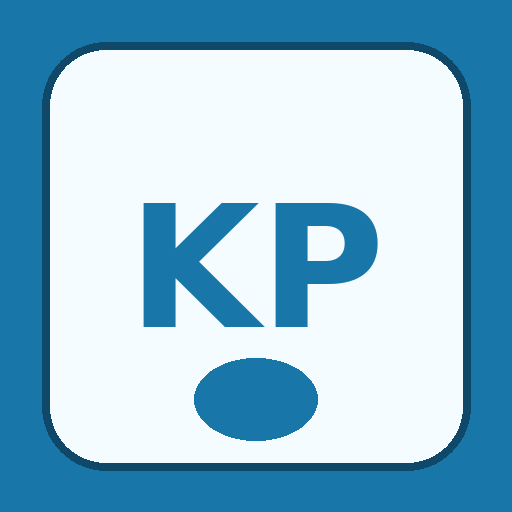
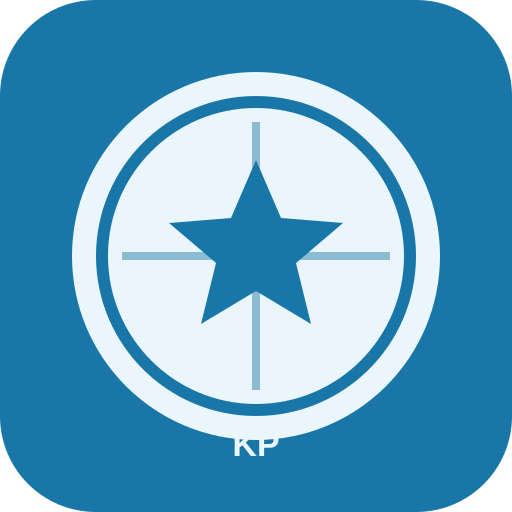
Add files via upload

diff --git a/sw.js b/sw.js
@@ -1,14 +1,39 @@
-const CACHE_NAME = 'kpmuhurat-v1.5.11-1.36-event-rule-engine';
-self.addEventListener('install', event => { self.skipWaiting(); });
-self.addEventListener('activate', event => {
-  event.waitUntil(caches.keys().then(keys => Promise.all(keys.filter(k => k !== CACHE_NAME).map(k => caches.delete(k)))).then(() => self.clients.claim()));
+const CACHE = 'kpmuhurat-v1.42';
+const SHELL = [
+  './', './index.html', './manifest.webmanifest',
+  './icon-192.png', './icon-512.png'
+];
+
+self.addEventListener('install', event => {
+  event.waitUntil(caches.open(CACHE).then(c => c.addAll(SHELL)).then(() => self.skipWaiting()));
 });
+
+self.addEventListener('activate', event => {
+  event.waitUntil(caches.keys().then(keys => Promise.all(
+    keys.filter(k => k.startsWith('kpmuhurat-') && k !== CACHE).map(k => caches.delete(k))
+  )).then(() => self.clients.claim()));
+});
+
 self.addEventListener('fetch', event => {
   const req = event.request;
   if (req.method !== 'GET') return;
-  if (req.mode === 'navigate' || new URL(req.url).pathname.endsWith('/index.html') || new URL(req.url).pathname.endsWith('/')) {
-    event.respondWith(fetch(req).then(res => { const copy=res.clone(); caches.open(CACHE_NAME).then(c=>c.put(req,copy)); return res; }).catch(()=>caches.match(req).then(r=>r||caches.match('./index.html'))));
+  const url = new URL(req.url);
+  if (url.origin !== self.location.origin) return;
+
+  if (req.mode === 'navigate') {
+    event.respondWith(fetch(req).then(res => {
+      const copy = res.clone();
+      caches.open(CACHE).then(c => c.put('./index.html', copy));
+      return res;
+    }).catch(() => caches.match('./index.html')));
     return;
   }
-  event.respondWith(fetch(req).then(res=>{const copy=res.clone();caches.open(CACHE_NAME).then(c=>c.put(req,copy));return res;}).catch(()=>caches.match(req)));
+
+  event.respondWith(caches.match(req).then(cached => cached || fetch(req).then(res => {
+    if (res.ok) {
+      const copy = res.clone();
+      caches.open(CACHE).then(c => c.put(req, copy));
+    }
+    return res;
+  })));
 });

diff --git a/KPMuhurat_V1.5.11_Web_1.42.html b/KPMuhurat_V1.5.11_Web_1.42.html
@@ -2296,7 +2296,7 @@ initEngine();
 </script>
 <script>
 (function(){
-  if('serviceWorker' in navigator){ navigator.serviceWorker.register('./sw.js?v=1.42').catch(function(e){console.warn('SW registration failed',e);}); }
+  if('serviceWorker' in navigator){ navigator.serviceWorker.register('./sw.js?v=1.41').catch(function(e){console.warn('SW registration failed',e);}); }
   var b=document.getElementById('install');
   var deferred=null;
   function updateInstallState(){

diff --git a/README_INSTALL.md b/README_INSTALL.md
@@ -1,0 +1,32 @@
+# KPMuhurat V1.5.11 Web 1.42 — Installable PWA
+
+This package keeps the supplied Web 1.42 calculation/UI build and adds the files needed to install it as a PWA.
+
+## Important
+Open the app from an **HTTPS URL** (for example GitHub Pages), not from a `content://` file opened from Android Downloads. Chrome's PWA installation flow requires a web app origin; a downloaded HTML file is not the same thing as a hosted PWA.
+
+## Files
+- `index.html` — Web 1.42 application
+- `manifest.webmanifest` — PWA manifest
+- `sw.js` — service worker with a versioned 1.42 cache
+- `icon-192.png`, `icon-512.png` — install icons
+
+The current Web 1.42 build still loads Swiss Ephemeris browser/WASM from the CDN URLs already present in the application. Therefore this package provides PWA installation and shell caching, but it is **not a fully self-contained offline astronomy bundle**.
+
+## GitHub Pages
+1. Create/open a GitHub repository.
+2. Upload the contents of this folder to the repository root.
+3. Enable **Settings → Pages → Deploy from branch → main → / (root)**.
+4. Open the HTTPS Pages URL in Chrome on Android.
+5. Chrome menu ⋮ → **Install app** (or **Add to Home screen**).
+6. Launch KPMuhurat from the Android home screen.
+
+## Local Windows test
+Run a local HTTP server from this folder, then open the shown localhost URL in Chrome. Example with Python:
+
+`python -m http.server 8080`
+
+Then open `http://localhost:8080/`.
+
+## Calculation note
+This packaging change does not alter the V1.5.11 calculation logic. Web 1.42 remains the current reconstruction build and should continue to be regression-tested against the Windows V1.5.11 results.
